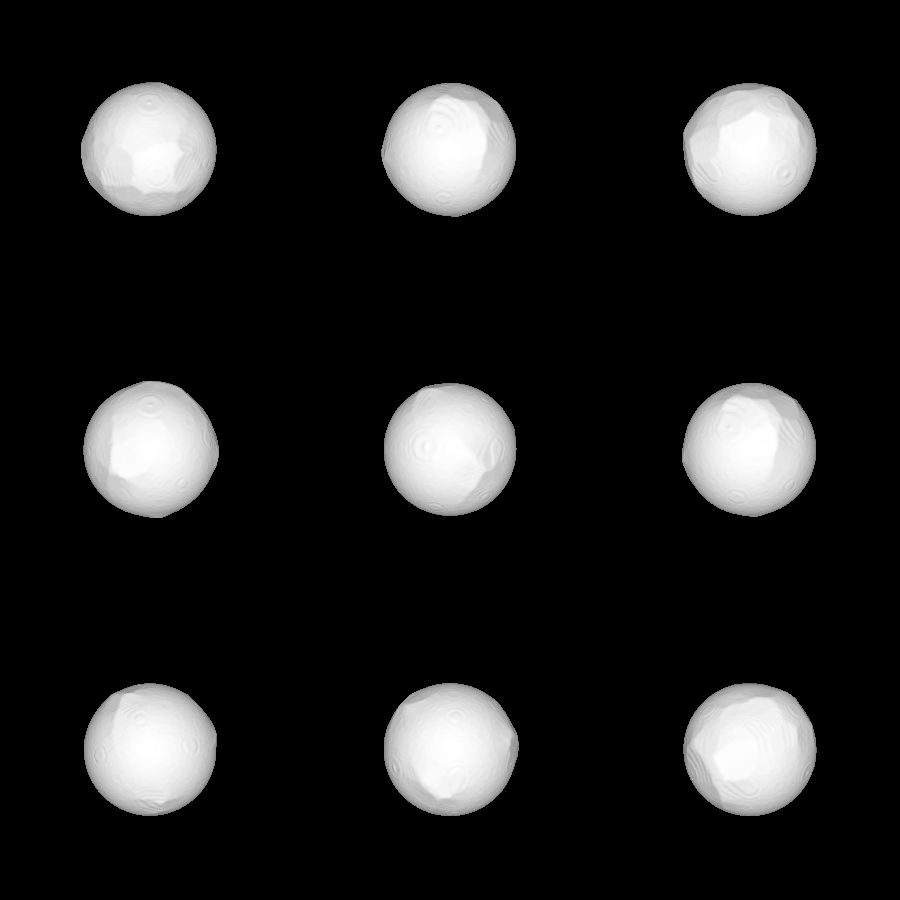
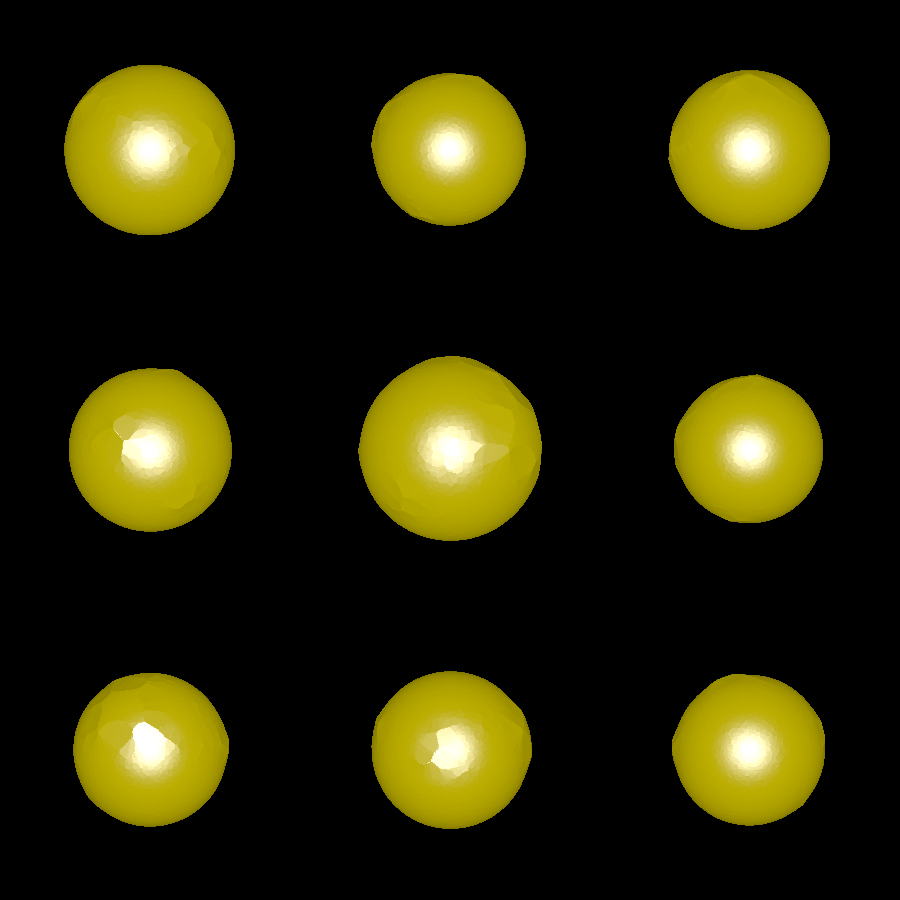
fully remove render API
Replaced by the render3d API in all examples.

diff --git a/examples/experiments/convex_globe/main.go b/examples/experiments/convex_globe/main.go
@@ -10,6 +10,7 @@ import (
 
 	"github.com/unixpickle/essentials"
 	"github.com/unixpickle/model3d"
+	"github.com/unixpickle/model3d/render3d"
 	"github.com/unixpickle/model3d/toolbox3d"
 )
 
@@ -48,7 +49,7 @@ func main() {
 
 	log.Println("Saving...")
 	mesh.SaveGroupedSTL("mesh.stl")
-	model3d.SaveRandomGrid("rendering.png", model3d.MeshToCollider(mesh), 3, 3, 300, 300)
+	render3d.SaveRandomGrid("rendering.png", mesh, 3, 3, 300, nil)
 }
 
 type PolySolid struct {

diff --git a/examples/apis/solid_collider/main.go b/examples/apis/solid_collider/main.go
@@ -2,6 +2,7 @@ package main
 
 import (
 	"github.com/unixpickle/model3d"
+	"github.com/unixpickle/model3d/render3d"
 )
 
 func main() {
@@ -41,5 +42,5 @@ func main() {
 		// also become inaccurate.
 		NormalBisectEpsilon: 1e-5,
 	}
-	model3d.SaveRandomGrid("rendering.png", collider, 4, 4, 300, 300)
+	render3d.SaveRandomGrid("rendering.png", collider, 4, 4, 300, nil)
 }
